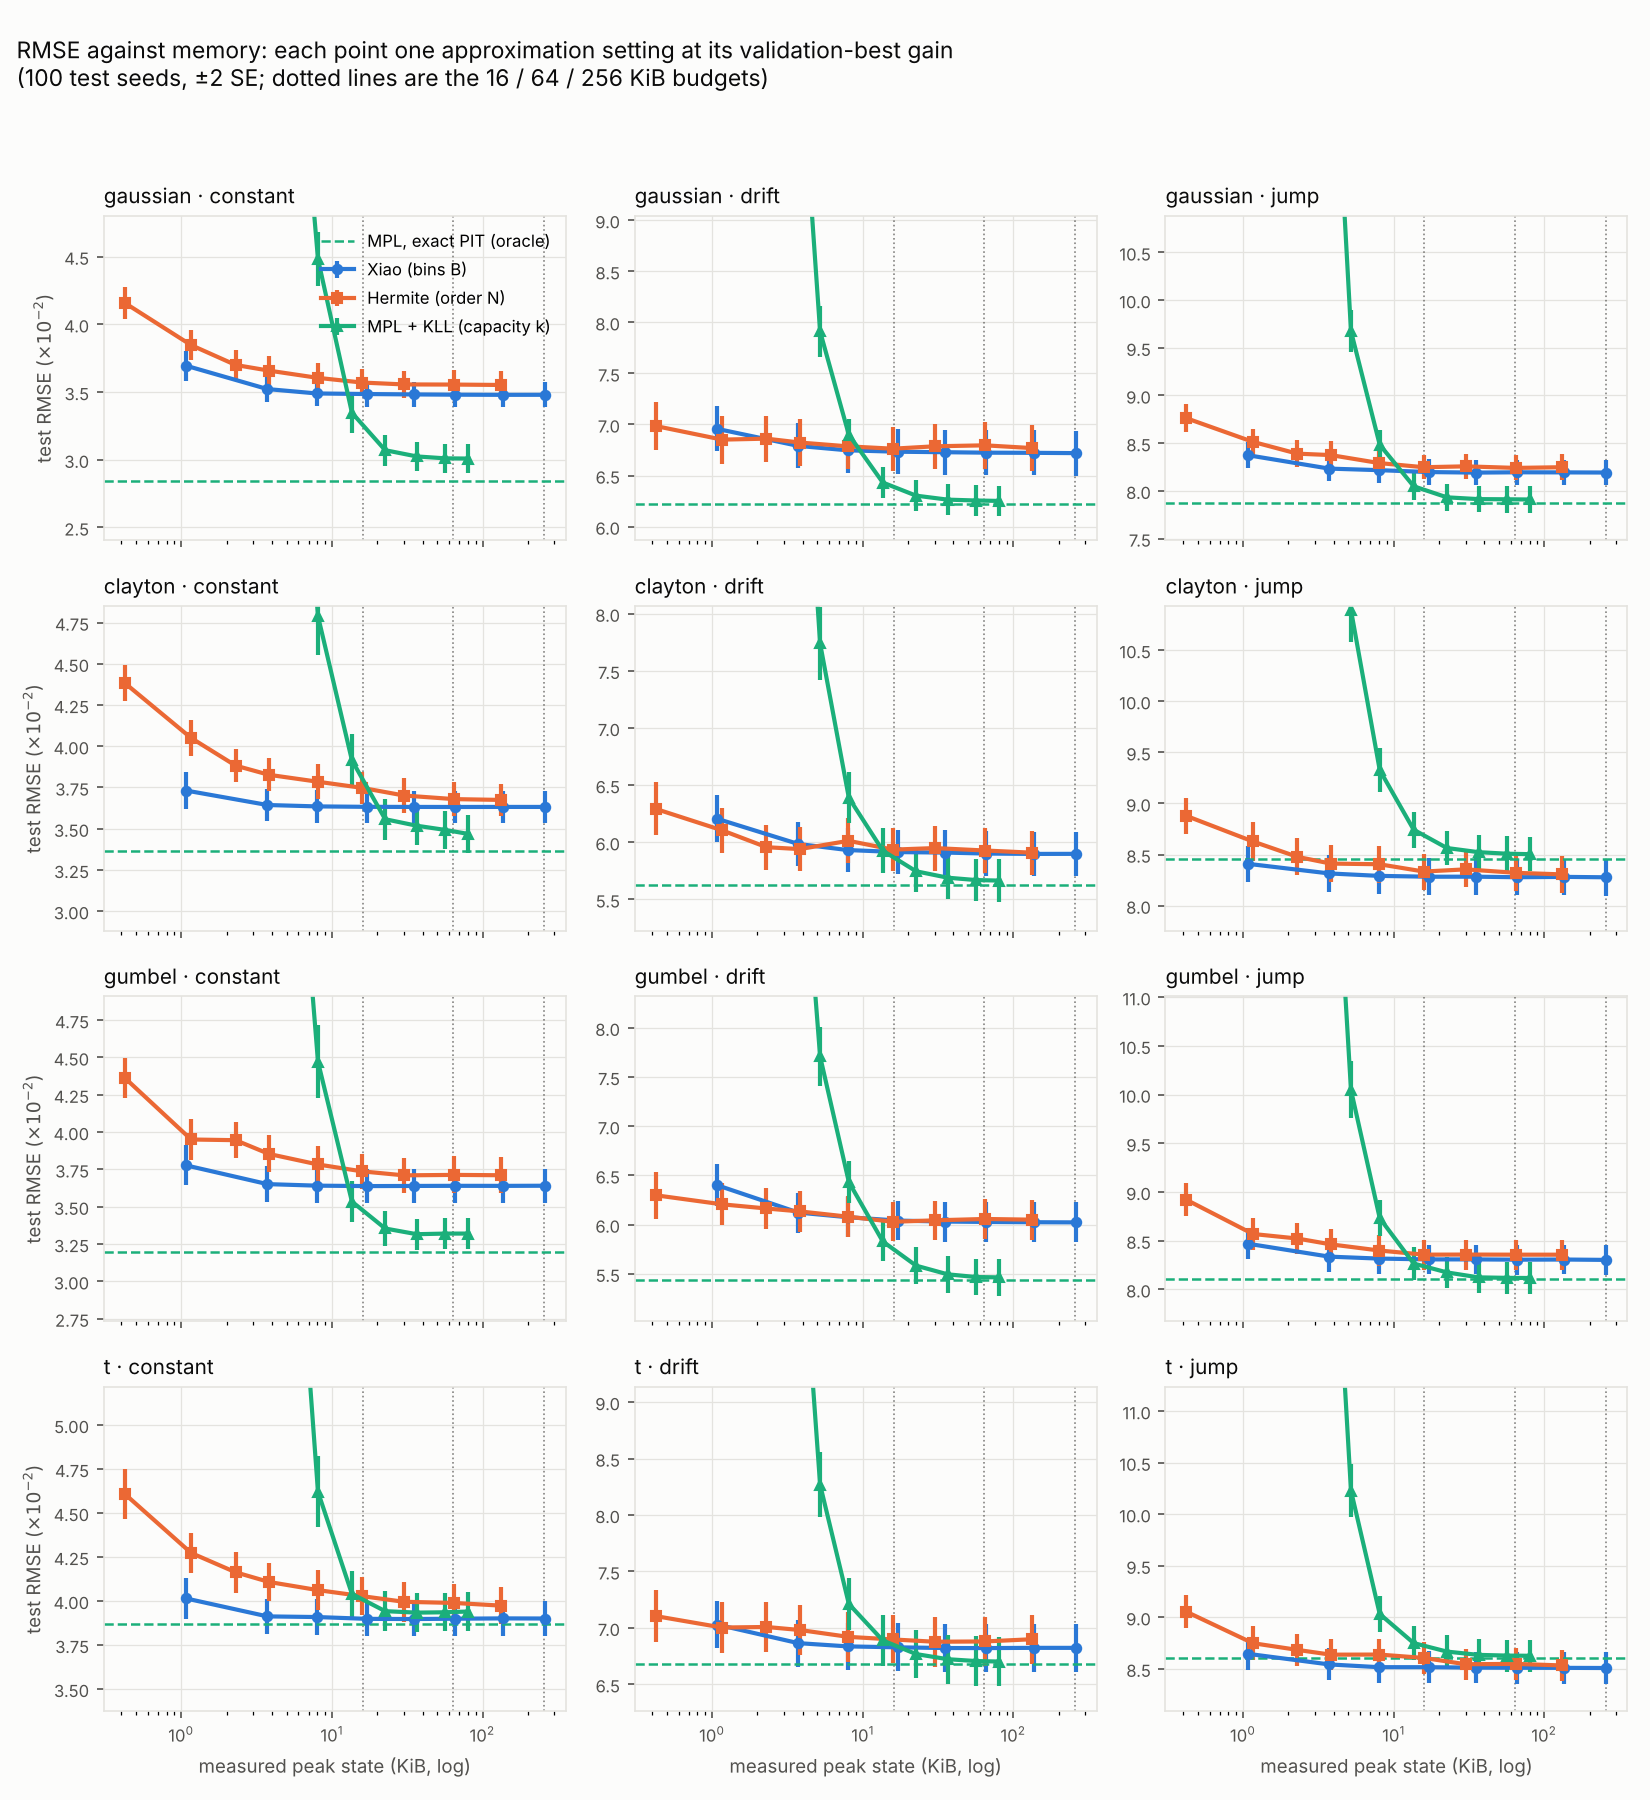
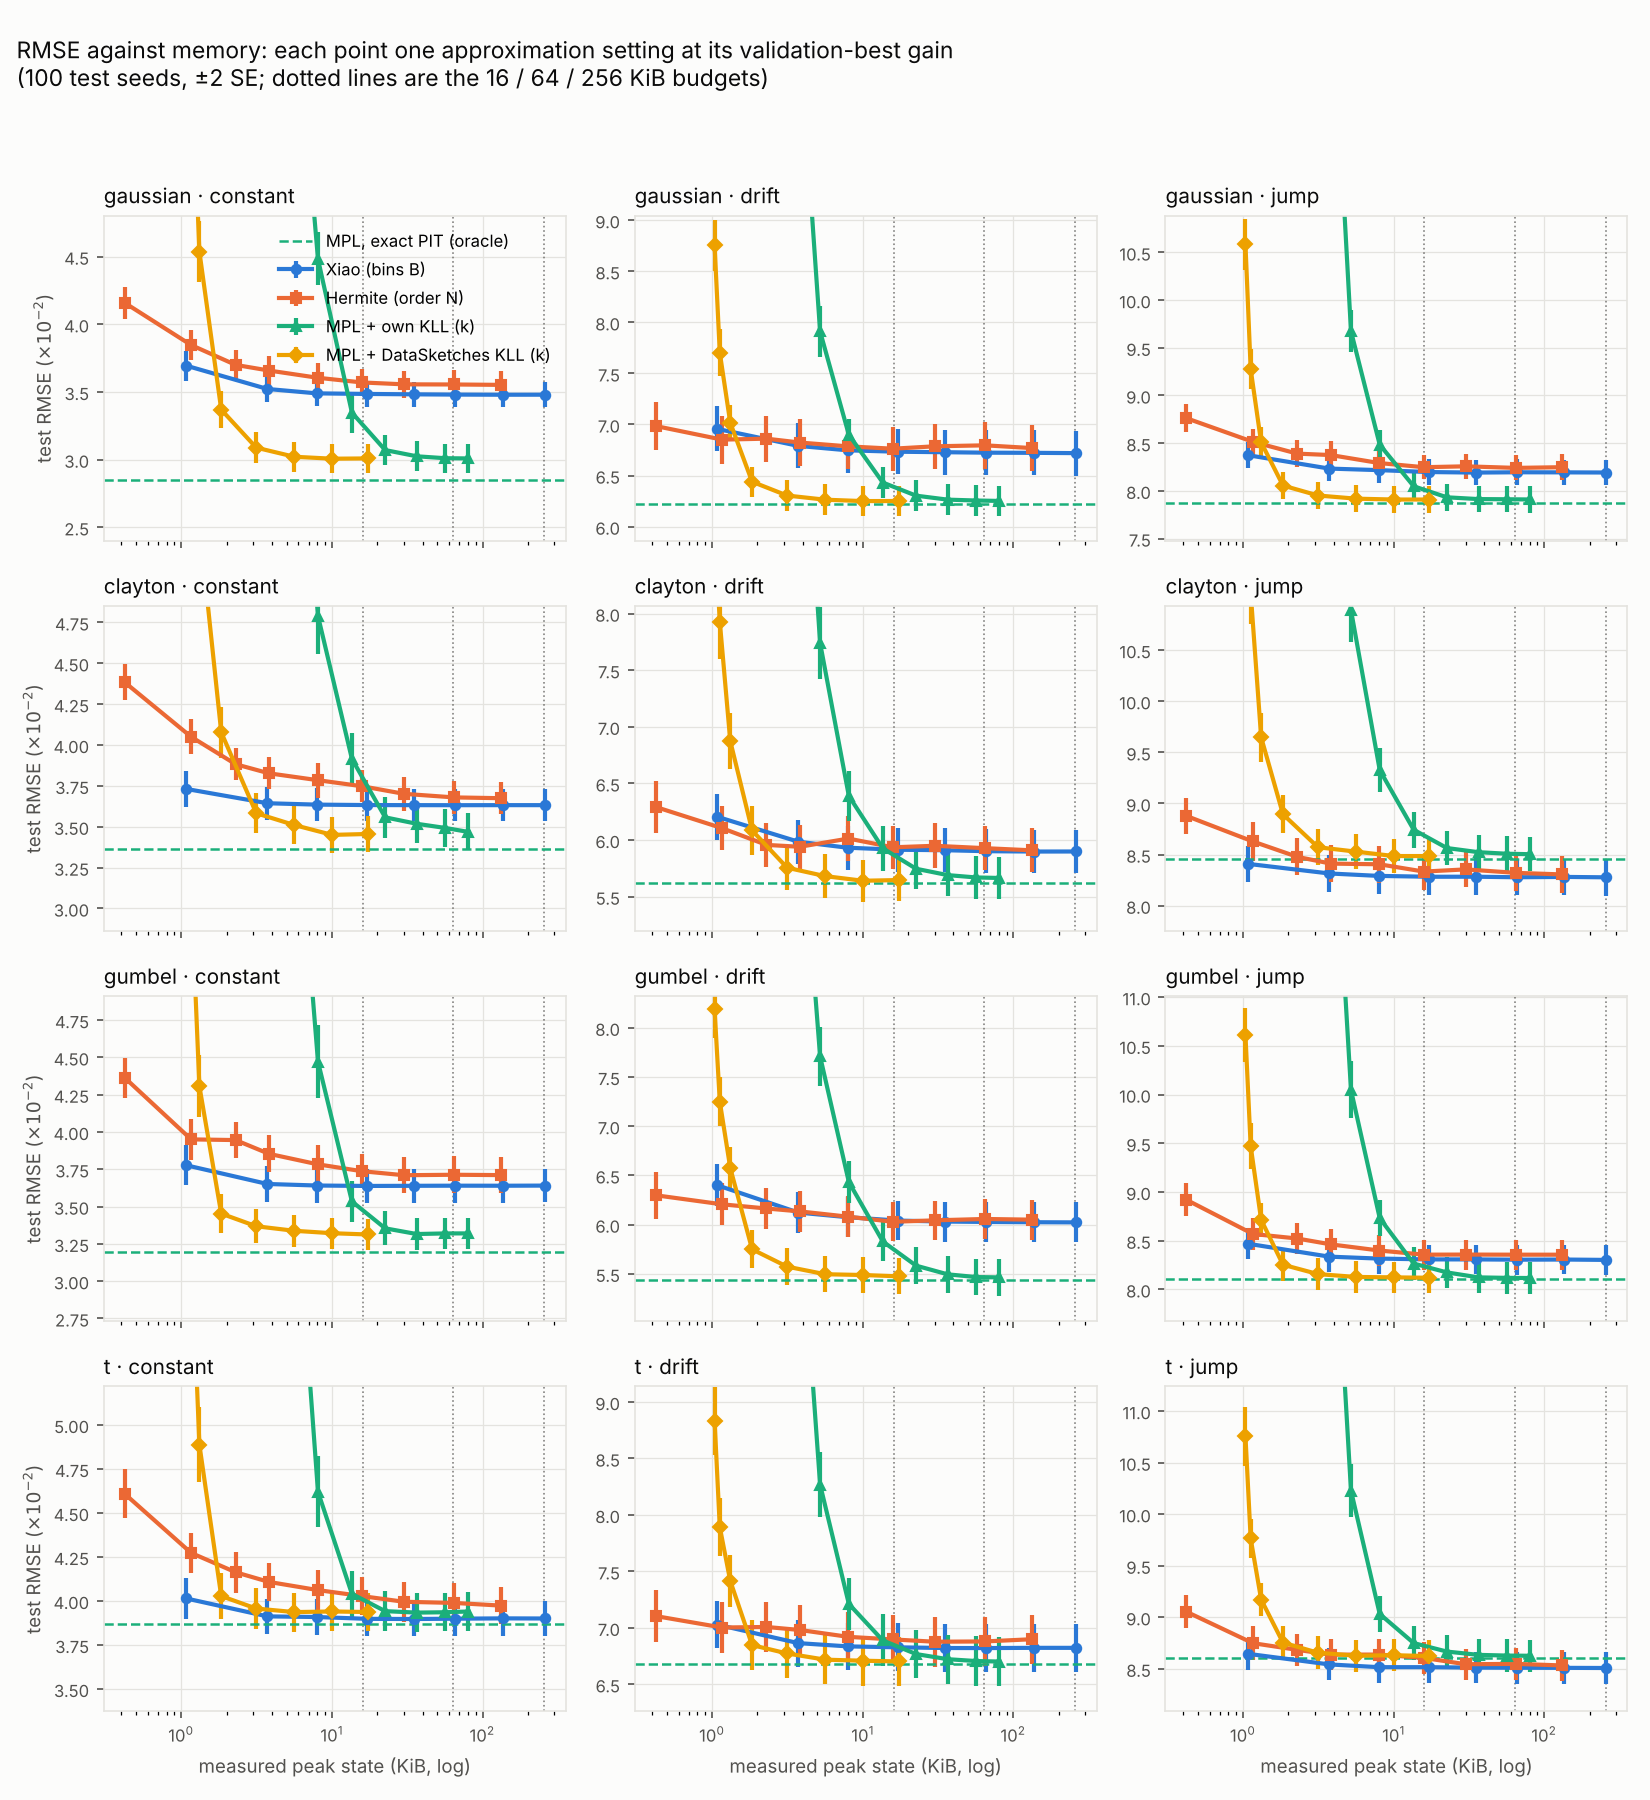
Budget rerun with DataSketches KLL: MPL plateaus inside 16 KiB at 5.8-10 KB; results in note §10.1 and handoff §3.9; figures and timing regenerated
Claude-Session: https://claude.ai/code/session_011LH6MHfBJAMQDu7UQqGgRH

diff --git a/notes/handoff_codex.md b/notes/handoff_codex.md
@@ -305,9 +305,78 @@ These are the existing numbers. The **MPL rows used the OLD arms** and are stale
   - Xiao: a histogram, bias O(B⁻²) and variance O(B²/M), so the optimal B ~ M^{1/4}.
 - **Evaluation cost per G×G checkpoint:** MPL O(G²); Hermite O(GD² + G²D); Xiao O(B² + G² log B).
 
-### 3.9 DataSketches budget rerun (in progress)
+### 3.9 DataSketches budget rerun
 
-RESULTS_PLACEHOLDER
+**Done, 2026-11-06.** Same seeds as §3.3 (100 test, 40 validation). The own-KLL, Xiao and Hermite
+columns reproduce §3.3 exactly, so the harness is deterministic.
+- **Tables:** `experiments/results/budget_tables.txt`.
+- **Figures:** `ch6_budget_memory.png` (Gaussian + Clayton) and `ch6_budget_memory_all.png` (all
+  families). DataSketches is the yellow series.
+
+**Test RMSE ×10⁻² at 16 KiB** (DataSketches picks k = 256–512, using 5.8–10.3 KB):
+
+| Family | Scenario | Xiao | Hermite | MPL + own KLL (k = 64) | MPL + DataSketches KLL |
+| --- | --- | --- | --- | --- | --- |
+| Gaussian | constant | 3.49 | 3.61 | 3.35 | **3.01** |
+| | drift | 6.75 | 6.79 | 6.43 | **6.25** |
+| | jump | 8.22 | 8.25 | 8.05 | **7.91** |
+| Clayton | constant | 3.64 | 3.75 | 3.91 | **3.45** |
+| | drift | 5.93 | 5.94 | 5.93 | **5.64** |
+| | jump | **8.29** | 8.33 | 8.74 | 8.49 |
+| Gumbel | constant | 3.64 | 3.74 | 3.53 | **3.34** |
+| | drift | 6.07 | 6.03 | 5.83 | **5.49** |
+| | jump | 8.32 | 8.36 | 8.27 | **8.12** |
+| t₄ | constant | **3.91** | 4.06 | 4.04 | 3.94 |
+| | drift | 6.84 | 6.92 | 6.89 | **6.72** |
+| | jump | **8.52** | 8.64 | 8.75 | 8.63 |
+
+- **With DataSketches, the MPL reaches its plateau inside 16 KiB.** Its 16 KiB numbers equal its
+  64 and 256 KiB numbers. So the budget stops mattering for all three estimators.
+- **What remains is the method difference:**
+  - The MPL is best in 9 of 12 cells.
+  - Xiao is best on Clayton jump (by 0.20, about 1.6 unpaired SE), t₄ constant (0.03) and t₄ jump
+    (0.11).
+  - The t₄ gaps are within noise.
+- **Rank error isn't the binding constraint.** In Gaussian drift at g = .01, the RMSE against peak
+  memory is:
+
+  | Memory | 1.1 KB (k = 8) | 1.9 KB (k = 64) | 5.8 KB (k = 256) | 10.3 KB (k = 512) |
+  | --- | --- | --- | --- | --- |
+  | RMSE | .0875 | .0644 | .0626 | .0625 |
+
+  The exact-PIT oracle is .0622, so beyond about 6 KB the remaining error isn't marginal
+  approximation.
+- **Recovery after the jump** (16 KiB; post-change RMSE ×10⁻², delay to 90%):
+
+  | | Xiao | MPL + DataSketches |
+  | --- | --- | --- |
+  | Gaussian | 9.83 / 50 | **7.84 / 45** |
+  | Clayton | 10.23 / 50 | **9.81 / 45** |
+  | Gumbel | 10.51 / 45 | **8.97 / 45** |
+  | t₄ | 10.71 / 45 | **9.39 / 45** |
+
+  Hermite is 10.2–11.4.
+- **Marginal ablation:** DataSketches KLL 256 matches own KLL 256 within 0.02 in all 12 cells.
+  At k = 64 the two are equally coarse.
+- **Time per tick, idle machine** (`results/budget_timing.csv`, re-timed after the run; supersedes
+  §3.3's timing table):
+
+  | | Peak state | Time per tick |
+  | --- | --- | --- |
+  | MPL + DataSketches, k = 64 / 256 / 1024 | 1.9 / 5.8 / 17.7 KB | 0.64 / 1.24 / 3.7 µs |
+  | MPL + own KLL, k = 64 / 256 / 1024 | 13.9 / 37.5 / 82 KB | 0.66 / 1.0 / 1.96 µs |
+  | Xiao, B = 20 / 30 / 180 | | 0.52 / 1.15 / 63 µs |
+  | Hermite, N = 30 / 43 | | 1.9 / 3.1 µs |
+  | exact PIT | | 0.14 µs |
+  | window 500 | | 0.44 µs |
+
+  DataSketches is somewhat slower per tick at large k (iterator overhead), but every configuration
+  that validation picks costs under 2.5 µs.
+
+**Bottom line.** Implemented well, the recursive MPL on rank sketches is both *smaller* than Xiao
+(5.8 KB against 8–12 KB) and more accurate for ρ_S in most cells. The exceptions are Clayton jump
+and t₄, where Xiao is as good or slightly better.
+
 
 ## 4. Known issues and pitfalls
 

diff --git a/notes/studies/budget_mpl.md b/notes/studies/budget_mpl.md
@@ -364,6 +364,78 @@ empirical CDF):
   plateau inside the 16 KiB budget, where my sketch held it to k = 64.
   - That needs the budget rerun to confirm: `mpl_dskll` is already in `probe_budget`'s grid.
 
+### 10.1 Budget rerun with DataSketches KLL (100 test / 40 val seeds)
+
+**Done, 2026-11-06.** Same seeds as §3.3 (100 test, 40 validation). The own-KLL, Xiao and Hermite
+columns reproduce §3.3 exactly, so the harness is deterministic.
+- **Tables:** `experiments/results/budget_tables.txt`.
+- **Figures:** `ch6_budget_memory.png` (Gaussian + Clayton) and `ch6_budget_memory_all.png` (all
+  families). DataSketches is the yellow series.
+
+**Test RMSE ×10⁻² at 16 KiB** (DataSketches picks k = 256–512, using 5.8–10.3 KB):
+
+| Family | Scenario | Xiao | Hermite | MPL + own KLL (k = 64) | MPL + DataSketches KLL |
+| --- | --- | --- | --- | --- | --- |
+| Gaussian | constant | 3.49 | 3.61 | 3.35 | **3.01** |
+| | drift | 6.75 | 6.79 | 6.43 | **6.25** |
+| | jump | 8.22 | 8.25 | 8.05 | **7.91** |
+| Clayton | constant | 3.64 | 3.75 | 3.91 | **3.45** |
+| | drift | 5.93 | 5.94 | 5.93 | **5.64** |
+| | jump | **8.29** | 8.33 | 8.74 | 8.49 |
+| Gumbel | constant | 3.64 | 3.74 | 3.53 | **3.34** |
+| | drift | 6.07 | 6.03 | 5.83 | **5.49** |
+| | jump | 8.32 | 8.36 | 8.27 | **8.12** |
+| t₄ | constant | **3.91** | 4.06 | 4.04 | 3.94 |
+| | drift | 6.84 | 6.92 | 6.89 | **6.72** |
+| | jump | **8.52** | 8.64 | 8.75 | 8.63 |
+
+- **With DataSketches, the MPL reaches its plateau inside 16 KiB.** Its 16 KiB numbers equal its
+  64 and 256 KiB numbers. So the budget stops mattering for all three estimators.
+- **What remains is the method difference:**
+  - The MPL is best in 9 of 12 cells.
+  - Xiao is best on Clayton jump (by 0.20, about 1.6 unpaired SE), t₄ constant (0.03) and t₄ jump
+    (0.11).
+  - The t₄ gaps are within noise.
+- **Rank error isn't the binding constraint.** In Gaussian drift at g = .01, the RMSE against peak
+  memory is:
+
+  | Memory | 1.1 KB (k = 8) | 1.9 KB (k = 64) | 5.8 KB (k = 256) | 10.3 KB (k = 512) |
+  | --- | --- | --- | --- | --- |
+  | RMSE | .0875 | .0644 | .0626 | .0625 |
+
+  The exact-PIT oracle is .0622, so beyond about 6 KB the remaining error isn't marginal
+  approximation.
+- **Recovery after the jump** (16 KiB; post-change RMSE ×10⁻², delay to 90%):
+
+  | | Xiao | MPL + DataSketches |
+  | --- | --- | --- |
+  | Gaussian | 9.83 / 50 | **7.84 / 45** |
+  | Clayton | 10.23 / 50 | **9.81 / 45** |
+  | Gumbel | 10.51 / 45 | **8.97 / 45** |
+  | t₄ | 10.71 / 45 | **9.39 / 45** |
+
+  Hermite is 10.2–11.4.
+- **Marginal ablation:** DataSketches KLL 256 matches own KLL 256 within 0.02 in all 12 cells.
+  At k = 64 the two are equally coarse.
+- **Time per tick, idle machine** (`results/budget_timing.csv`, re-timed after the run; supersedes
+  §3.3's timing table):
+
+  | | Peak state | Time per tick |
+  | --- | --- | --- |
+  | MPL + DataSketches, k = 64 / 256 / 1024 | 1.9 / 5.8 / 17.7 KB | 0.64 / 1.24 / 3.7 µs |
+  | MPL + own KLL, k = 64 / 256 / 1024 | 13.9 / 37.5 / 82 KB | 0.66 / 1.0 / 1.96 µs |
+  | Xiao, B = 20 / 30 / 180 | | 0.52 / 1.15 / 63 µs |
+  | Hermite, N = 30 / 43 | | 1.9 / 3.1 µs |
+  | exact PIT | | 0.14 µs |
+  | window 500 | | 0.44 µs |
+
+  DataSketches is somewhat slower per tick at large k (iterator overhead), but every configuration
+  that validation picks costs under 2.5 µs.
+
+**Bottom line.** Implemented well, the recursive MPL on rank sketches is both *smaller* than Xiao
+(5.8 KB against 8–12 KB) and more accurate for ρ_S in most cells. The exceptions are Clayton jump
+and t₄, where Xiao is as good or slightly better.
+
 ## 11. Spec vs code, and the MPL bank switched to the spec (2026-11-06)
 
 ### The agreed specification
